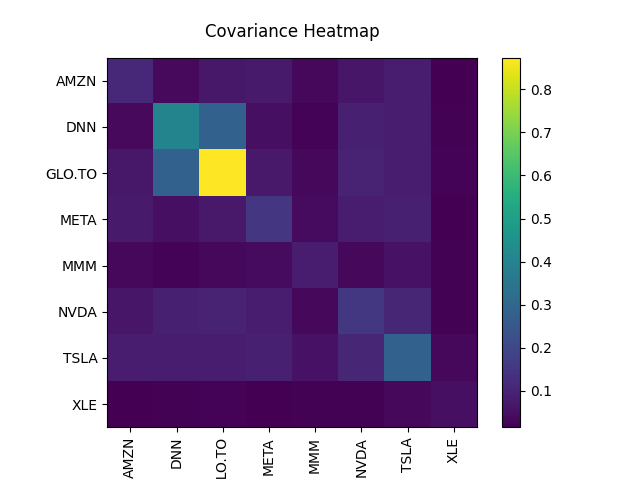
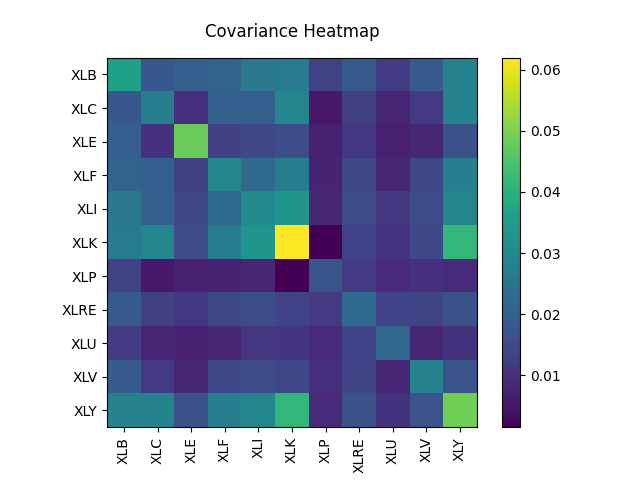
feat: add benchmark point to frointer

diff --git a/src/Plotters.py b/src/Plotters.py
@@ -4,21 +4,26 @@ import matplotlib.pyplot as plt
 from pathlib import Path
 from sklearn.decomposition import PCA
 
-import numpy as np
-import matplotlib.pyplot as plt
-
-def plot_frontier(frontier, optimal_p, default_p, show=True, save=False, random_points=None):
+def plot_frontier(
+        frontier,
+        optimal_p = None,
+        default_p = None,
+        benchmark_p = None,
+        random_points=None,
+        show=True,
+        save=False):
     volatility = np.array([v for (v, _) in frontier])
     returns = np.array([ret for (_, ret) in frontier])
 
     # Values to crop plot
-    min_x = min(0, min(optimal_p[0], default_p[0]))
-    min_y = min(0, min(optimal_p[1], default_p[1]))
     max_x = volatility.max()
     max_y = max(max(optimal_p[1], default_p[1]), returns.max())
+    min_x = min(0, min(optimal_p[0], default_p[0]))
+    min_y = min(0, min(optimal_p[1], default_p[1]))
+
 
     if optimal_p[0] != 0 and default_p[0] != 0:
-        min_sharpe = min((optimal_p[1]/optimal_p[0]), (default_p[1]/default_p[0]))
+        min_sharpe = min(0, min((optimal_p[1]/optimal_p[0]), (default_p[1]/default_p[0])))
     else:
         min_sharpe = 0
 
@@ -70,6 +75,12 @@ def plot_frontier(frontier, optimal_p, default_p, show=True, save=False, random_
         plt.scatter(dpx, dpy, color="orange", marker="x", s=100, linewidths=2,
                     label="Your Portfolio", zorder=3)
 
+    # Benchmark point
+    if benchmark_p is not None:
+        bpx, bpy = benchmark_p
+        bpx = min(bpx, max_x)
+        plt.scatter(bpx, bpy, color="blue", marker="x", s=100, linewidths=2,
+                    label="Benchmark Portfolio", zorder=3)
     # Labels and legend
     plt.xlabel("Volatility")
     plt.ylabel("Expected Return")
@@ -90,7 +101,6 @@ def plot_frontier(frontier, optimal_p, default_p, show=True, save=False, random_
     else:
         plt.close()
 
-
 def plot_heatmap(portfolio, sigma, show=True, save=False):
     if isinstance(portfolio, dict):
         portfolio = list(portfolio.keys())
@@ -102,15 +112,9 @@ def plot_heatmap(portfolio, sigma, show=True, save=False):
         raise ValueError("sigma size must match portfolio length")
 
     cov_df = pd.DataFrame(sigma, index=portfolio, columns=portfolio)
-
     # Plot covariance heatmap
     fig, ax = plt.subplots()
     cax = ax.imshow(cov_df, interpolation='nearest')
-
-    """
-    max_abs = np.max(np.abs(sigma))
-    cax = ax.imshow(cov_df, interpolation='nearest', vmin=-max_abs, vmax=max_abs)
-    """
 
     ax.set_xticks(range(len(portfolio)))
     ax.set_yticks(range(len(portfolio)))

diff --git a/src/Utilities.py b/src/Utilities.py
@@ -3,7 +3,7 @@ import pandas as pd
 import math
 from src import Optimizer
 import random
-from config import YEARS, RF, NO_O_RANDOM_POINTS
+from config import YEARS, RF, NO_O_RANDOM_POINTS, SHORT_COST
 
 
 def get_log_returns(price_data, date="2026-03-22", years = YEARS):
@@ -60,11 +60,11 @@ def randomize_portfolio(portfolio):
     port = {}
     if isinstance(portfolio, dict):
         for ticker, weights in portfolio.items():
-            port[ticker] = random.random()*2 -1
+            port[ticker] = random.random() - 0.5
     else:
         for ticker in portfolio:
-            port[ticker] = random.random()*2 -1
-    return port
+            port[ticker] = random.random() - 0.5
+    return normalize_portfolio(port)
 
 def get_randomized_portfolios(portfolio, returns_df, n = NO_O_RANDOM_POINTS):
     random_vol_ret_points = []

diff --git a/scripts/create_and_analyze_portfolio.py b/scripts/create_and_analyze_portfolio.py
@@ -58,7 +58,7 @@ optimal_p = (
     optimal_portfolio_stats.at[optimal_portfolio_stats.index[0], "Expected Return"]
 )
 save = input("Do you want to save figures? (y/n): ") == "y"
-Plotters.plot_frontier(frontier, optimal_p, default_p, save = save, random_points=random_points)
+Plotters.plot_frontier(frontier, optimal_p, default_p, save = save ,random_points=random_points)
 Plotters.plot_heatmap(valid_tickers, sigma, save = save)
 Plotters.plot_PCA(log_returns, save = save)
 

diff --git a/config.py b/config.py
@@ -4,7 +4,7 @@ SHORT_ALLOWED = True
 YEARS = 1
 SHORT_COST = 0.05
 # Caps efficient frontier at desired unrealistic returns
-RETURN_CAP = 3
-NO_O_RANDOM_POINTS = 100
+RETURN_CAP = 2
+NO_O_RANDOM_POINTS = 300
 
 DEFAULT_PORTFOLIO_PATH = "data/default_portfolio.json"
